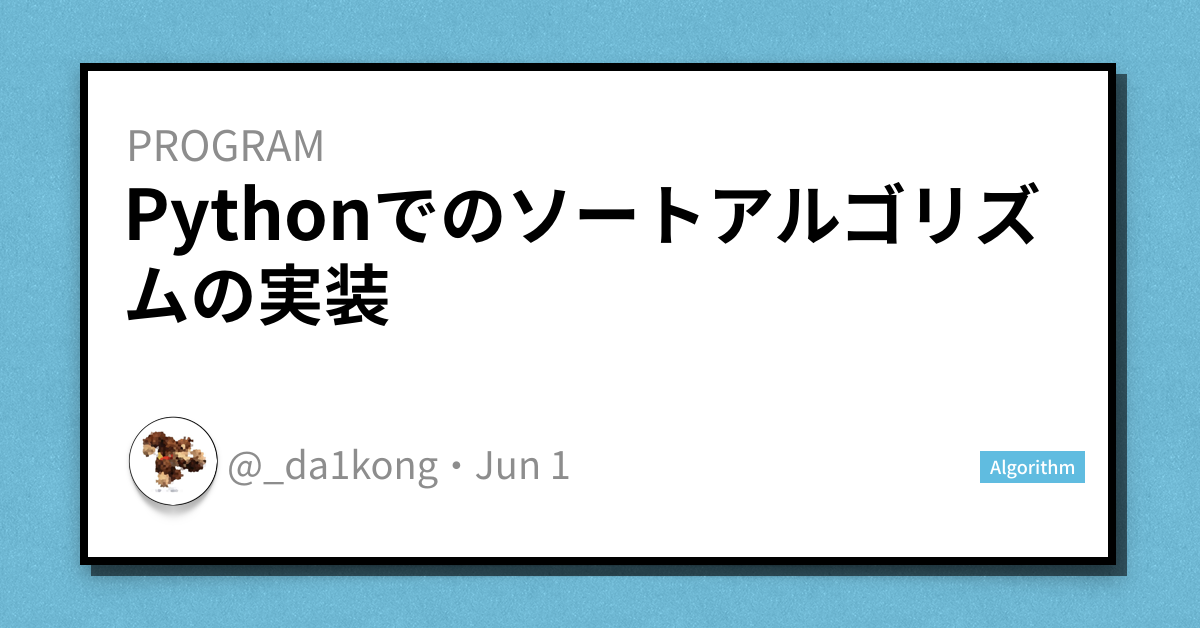
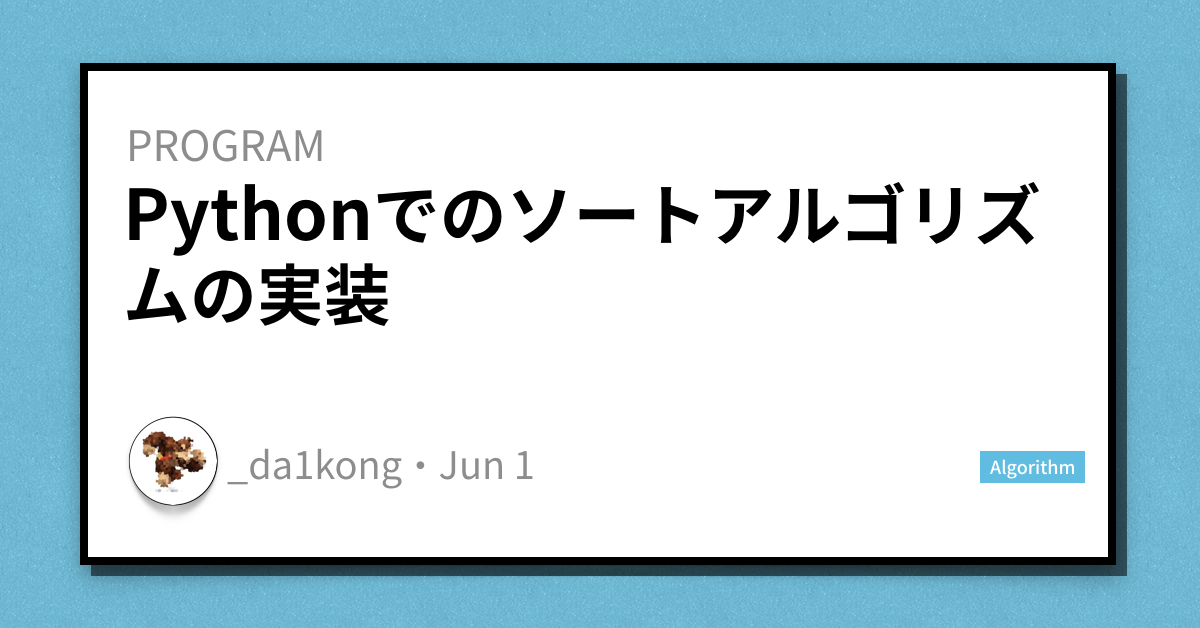
:wrench: ユーザー名を変更してTwitter Cardを再作成

Changed region(s): [[0.185, 0.6959, 0.4933, 0.7866]]

diff --git a/content/ja/posts/dotenv-js.md b/content/ja/posts/dotenv-js.md
@@ -5,7 +5,7 @@ description: "Node.js で API を作っていた時に Production Key や DB の
 categories: ["PROGRAM"]
 tags: ["Nodejs"]
 images: ["tcard/dotenv-js.png"]
-author: ["@_da1kong"]
+author: "_da1kong"
 ---
 
 Node.js で API を作っていた時に Production Key や DB のパスワードをハードコーディングして GitHub に上げるのセキュリティ的に良くありません。調べてみると Nodejs には環境変数を簡単に設定できる**dotenv**というモジュールがありました。今回はその使い方のメモです。

diff --git a/content/ja/posts/github-repository-migration.md b/content/ja/posts/github-repository-migration.md
@@ -5,7 +5,7 @@ description: "リポジトリをまとめるために、リポジトリから他
 categories: ["PROGRAM"]
 tags: ["GitHub"]
 images: ["tcard/github-repository-migration.png"]
-author: ["@_da1kong"]
+author: "_da1kong"
 ---
 
 リポジトリをまとめるために、リポジトリから他のリポジトリに履歴を残したまま移行しました。そのとき行った方法です。

diff --git a/content/ja/posts/react-intersection-observer.md b/content/ja/posts/react-intersection-observer.md
@@ -5,7 +5,7 @@ description: "react-intersection-observerとは画面の要素がビューポー
 categories: ["PROGRAM"]
 tags: ["React", "styled-component", "react-intersection-observer"]
 images: ["tcard/react-intersection-observer.png"]
-author: ["@_da1kong"]
+author: "_da1kong"
 ---
 
 ## はじめに

diff --git a/content/ja/posts/sort.md b/content/ja/posts/sort.md
@@ -5,7 +5,7 @@ description: "JavaSctipt 特有の非同期処理でのメモです。"
 categories: ["PROGRAM"]
 tags: ["algorithm"]
 images: ["tcard/sort.png"]
-author: ["@_da1kong"]
+author: "_da1kong"
 ---
 
 以前の面接のコーディング試験で配列ソートの課題がでました。

diff --git a/content/ja/posts/treasure.md b/content/ja/posts/treasure.md
@@ -5,7 +5,7 @@ description: "8/1, 8, 15の土曜日と8/17~28の約1ヶ月の期間、VOYAGE GR
 categories: ["PROGRAM"]
 tags: ["intern"]
 images: ["tcard/treasure.png"]
-author: ["@_da1kong"]
+author: "_da1kong"
 ---
 
 こんにちは、[だいち](https://twitter.com/_da1kong)です。

diff --git a/content/ja/posts/async-nodejs.md b/content/ja/posts/async-nodejs.md
@@ -5,7 +5,7 @@ description: "JavaSctipt 特有の非同期処理でのメモです。"
 categories: ["PROGRAM"]
 tags: ["Nodejs"]
 images: ["tcard/async-nodejs.png"]
-author: ["@_da1kong"]
+author: "_da1kong"
 ---
 
 JavaSctipt 特有の非同期処理でのメモです。

diff --git a/content/ja/posts/yumemi-intern.md b/content/ja/posts/yumemi-intern.md
@@ -5,7 +5,7 @@ description: ""
 categories: ["PROGRAM"]
 tags: ["intern"]
 images: ["tcard/yumemi-intern.png"]
-author: ["@_da1kong"]
+author: "_da1kong"
 ---
 
 こんにちは、だいちです。
